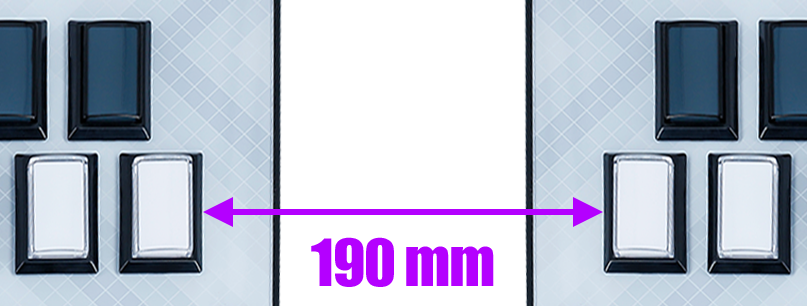
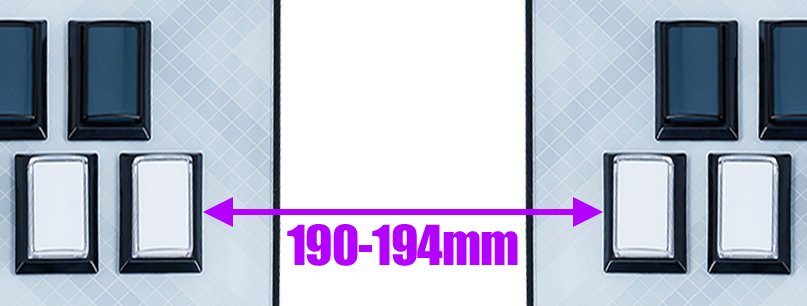
I took a ruler to the cabs

Changed region(s): [[0.3408, 0.7353, 0.6506, 0.9412]]

diff --git a/docs/c_dimensions.md b/docs/c_dimensions.md
@@ -22,7 +22,7 @@ Everyone is off by plus or minus a few centimeters, including this page. People 
 
 ## Height from bass platform to keys
 
-The height from top of the bass platform to the button panel is **90cm**. It is the same for both Lightning Model cabinets and the old cabs.
+The height from top of the bass platform to the button panel is **92-93cm**. It is the same for both Lightning Model cabinets and the old cabs.
 
 When you are playing at the arcade, you would have shoes on (hopefully), but when you are playing at home, you may not be wearing any shoes. This means you may need to compensate by having your home setup a few centimeters lower.
 
@@ -38,13 +38,13 @@ Important number for DP players - how far apart are the keys?
 
 ![DP distance between keys is 19cm](/assets/img/dp_distance.png)
 
-Measured from the right edge of 1P button 7 to left edge of 2P button 1 - it should be **19.0cm**. The edge starts where the button holder (black plastic) ends.
+Measured from the right edge of 1P button 7 to left edge of 2P button 1 - it should be around **19.0-19.4cm**. The edge starts where the button holder (black plastic) ends.
 
 ## [SP] Distance of controller from the center
 
 For SP players -- using the above measurement, we can derive that:
 
-* Rightmost edge of 1P button 7 (or leftmost edge of 2P button 1) is **9.5cm** away from the horizontal center of the screen.
+* Rightmost edge of 1P button 7 (or leftmost edge of 2P button 1) is around **9.5-9.7cm** away from the horizontal center of the screen.
 
 This assumes that you are using the same size monitor as the arcade, though. If your screen is smaller, you'll want to move a little closer to the middle.
 
@@ -55,17 +55,16 @@ This assumes that you are using the same size monitor as the arcade, though. If 
 * These are approximate numbers based on a drawing on the official manual.
 * Screen is a 43" - [see this page](/compendium/infinitas_monitor) for more about monitors. In reality, the visible area is a bit smaller, little bit over 42".
 * Roughly speaking, center of each turntable align with edges of the main monitor.
-* Keys to center of the screen is about 49.3cm.
-* Keys to bottom fo the screen is about 22.8cm.
-* Bass platform to keys is about 90cm, same as old cabinet.
-* Depth from front end of control panel to screen is about 66.7cm. Note that lightning cab does not have the black leather-bound cushion part on the front.
+* Keys to bottom fo the screen is about 23.7cm.
+* Bass platform to keys is about 93.5cm in the diagram; in reality, when measured, it seemed to be the same as old cabs (91-93cm).
+* Depth from front end of control panel to screen is about 66.7cm. Note that lightning cab does not have the black leather-bound cushion part on the front. This is the main reason for players thinking that LM cabs are lower than old cabs (even though they are the same); it's because they stand closer to it.
 
 ## Old cabinet details
 
 [This page](http://jahhoo.ldblog.jp/archives/17971701.html) has measurements taken from an old cabinet.
 
 * Bass platform is 10cm.
-* Bass platform to key panel is 90cm.
+* Bass platform to key panel is about 90cm from the diagram; in reality it's around 92-93cm.
 * For LCD cabs, key panel (measured from wood, not acrylic panel) to bottom of monitor is 23.5cm.
 
 ![Uniana cab dimensions](/assets/img/uniana_dimensions.jpg)
